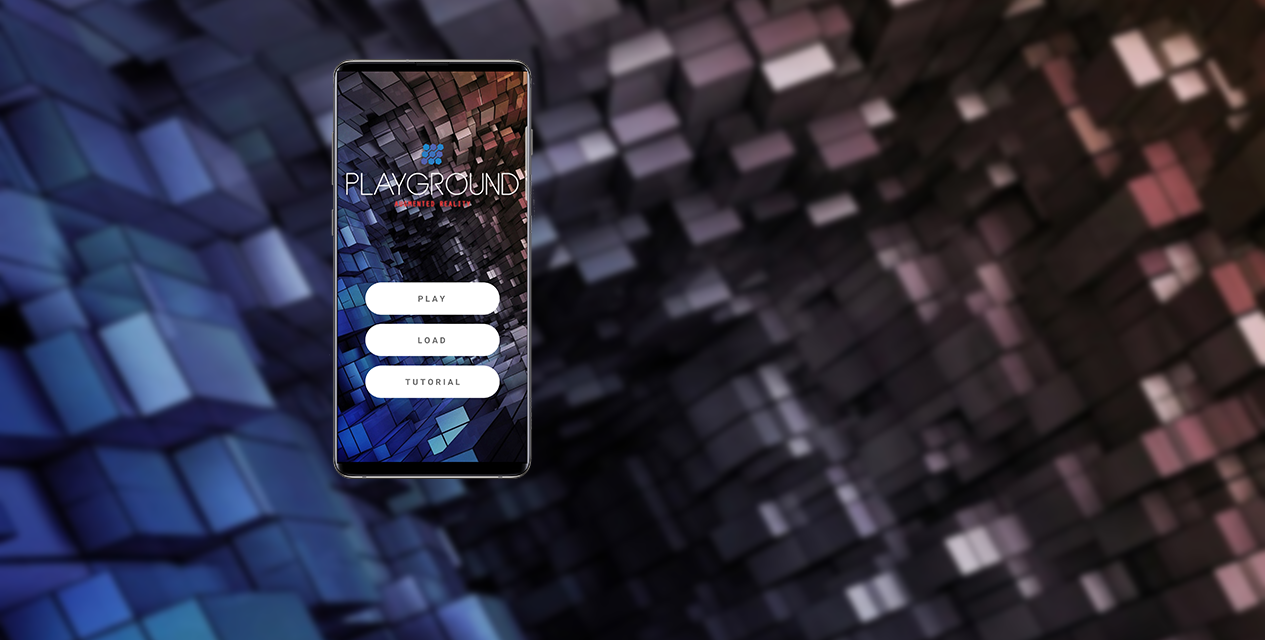
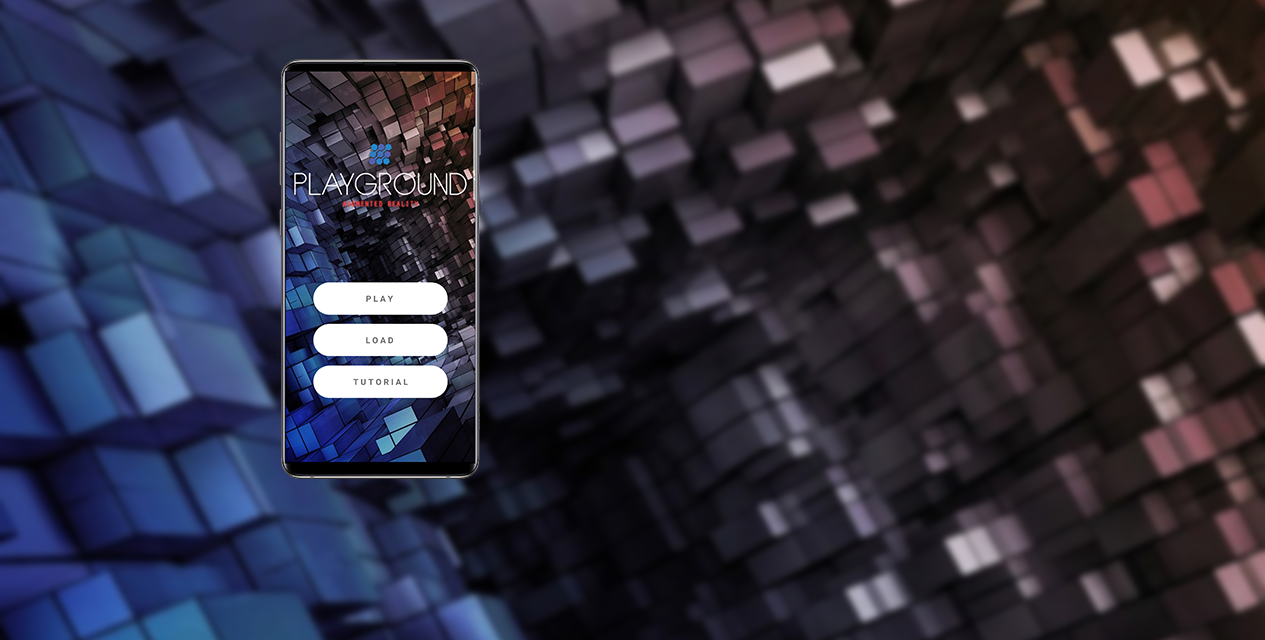
Added youtube presentation

Changed region(s): [[0.2158, 0.0938, 0.4316, 0.75]]

diff --git a/src/components/carousel.js b/src/components/carousel.js
@@ -2,6 +2,7 @@ import React, { useState } from "react"
 import Carousel from "react-bootstrap/Carousel"
 import image from "../images/MCfinal.png"
 import image2 from "../images/PGarFinal.png"
+import YouTube from "react-youtube-embed"
 
 export default function ControlledCarousel() {
   const [index, setIndex] = useState(0)
@@ -32,11 +33,21 @@ export default function ControlledCarousel() {
         </Carousel.Caption>
       </Carousel.Item>
       <Carousel.Item>
-        <img
-          src={image2}
-          className="d-block w-100"
-          style={{ height: "100vh" }}
-        />
+        <div className="playgroundAR">
+          <img
+            src={image2}
+            className="d-block pr-image"
+            style={{ height: "100vh" }}
+          />
+          <div className="presentation">
+            <YouTube
+              id="SBZLzeQz7_U"
+              aspectRatio="56.25%"
+              prependSrc="https://www.youtube.com/embed/"
+              appendSrc=""
+            />
+          </div>
+        </div>
 
         <Carousel.Caption>
           <h3>Playground AR</h3>

diff --git a/src/components/layout.css b/src/components/layout.css
@@ -34,6 +34,18 @@
   margin-top: 4em;
   font-family: Helvetica Neue;
 }
+.playgroundAR {
+  position: relative;
+}
+.pr-image {
+  /* z-index: 1; */
+}
+.presentation {
+  position: absolute;
+  top: 15%;
+  left: 40%;
+  width: 50%;
+}
 #about {
   color: white;
 }
